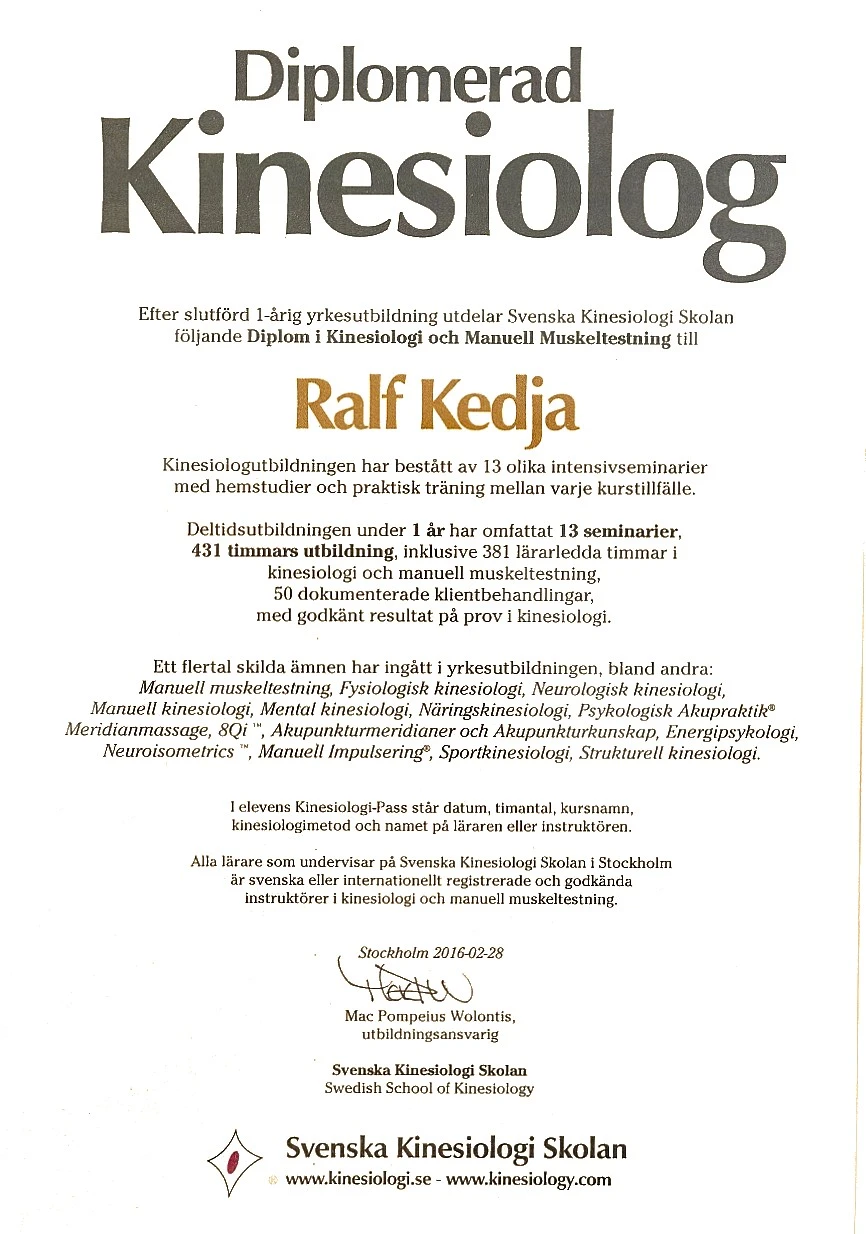
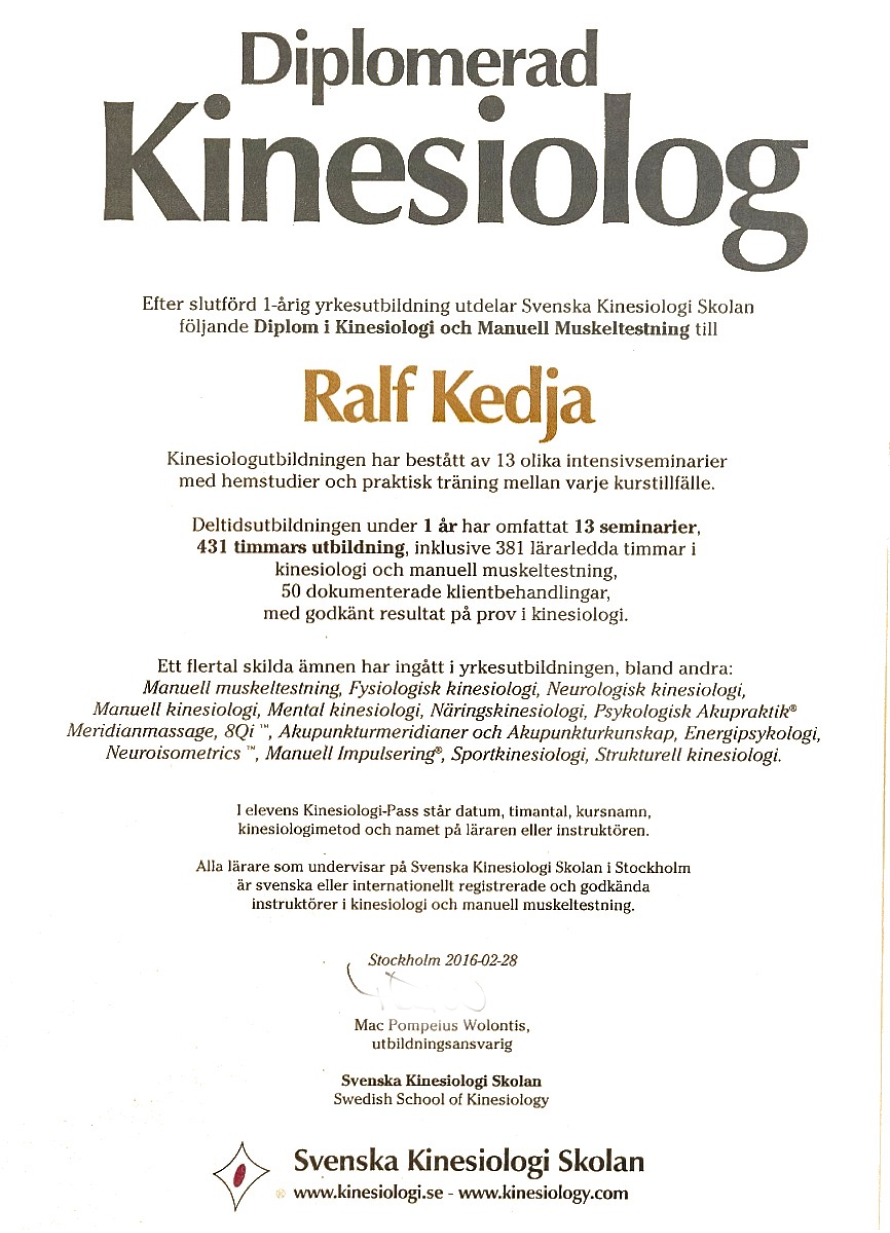
removed signatures from diplomas and small changes texts

diff --git a/src/app/components/utils/default-CTA.tsx b/src/app/components/utils/default-CTA.tsx
@@ -4,7 +4,7 @@ import SecondaryButton from '../button/secondary-button';
 export default function DefaultCTA() {
   return (
     <div className={style.container}>
-      <h3 className={style.text}>Har du frågor eller vill boka tid?</h3>
+      <h3 className={style.text}>Har du frågor du vill ställa mig?</h3>
       <div className={style.button}>
         <SecondaryButton href='/kontakt'>
           <p>KONTAKTA MIG</p>

diff --git a/src/app/components/about-me/self-intro.tsx b/src/app/components/about-me/self-intro.tsx
@@ -21,7 +21,7 @@ export default function SelfIntro() {
               alt='Ralf Kedja - Kroppsbalansering, Eskilstuna'
               fill
               className={style['image-element']}
-              sizes='(max-width: 600px) 90vw, (max-width: 1200px) 50vw, 30vw'
+              sizes='(max-width: 600px) 80vw, (max-width: 1200px) 50vw, 30vw'
             />
           </div>
         </div>

diff --git a/src/app/components/contact/contact-details.module.scss b/src/app/components/contact/contact-details.module.scss
@@ -59,6 +59,7 @@
 
     & > .left {
       width: 100%;
+      gap: 2rem;
     }
     & > .right {
       display: hidden;
@@ -66,6 +67,17 @@
 
     & > .detailsgrid {
       column-gap: 0;
+    }
+  }
+}
+
+@media (max-width: 400px) {
+  .content {
+    & > .left {
+      & > .detailsgrid {
+        display: flex;
+        flex-direction: column;
+      }
     }
   }
 }

diff --git a/src/app/components/about-me/self-intro.module.scss b/src/app/components/about-me/self-intro.module.scss
@@ -53,9 +53,9 @@
 
     & > .image-container {
       max-width: 450px;
-      width: 100%;
+      width: 80%;
       max-height: 450px;
-      height: 100%;
+      height: 80%;
     }
     & > .text {
       width: 100%;
